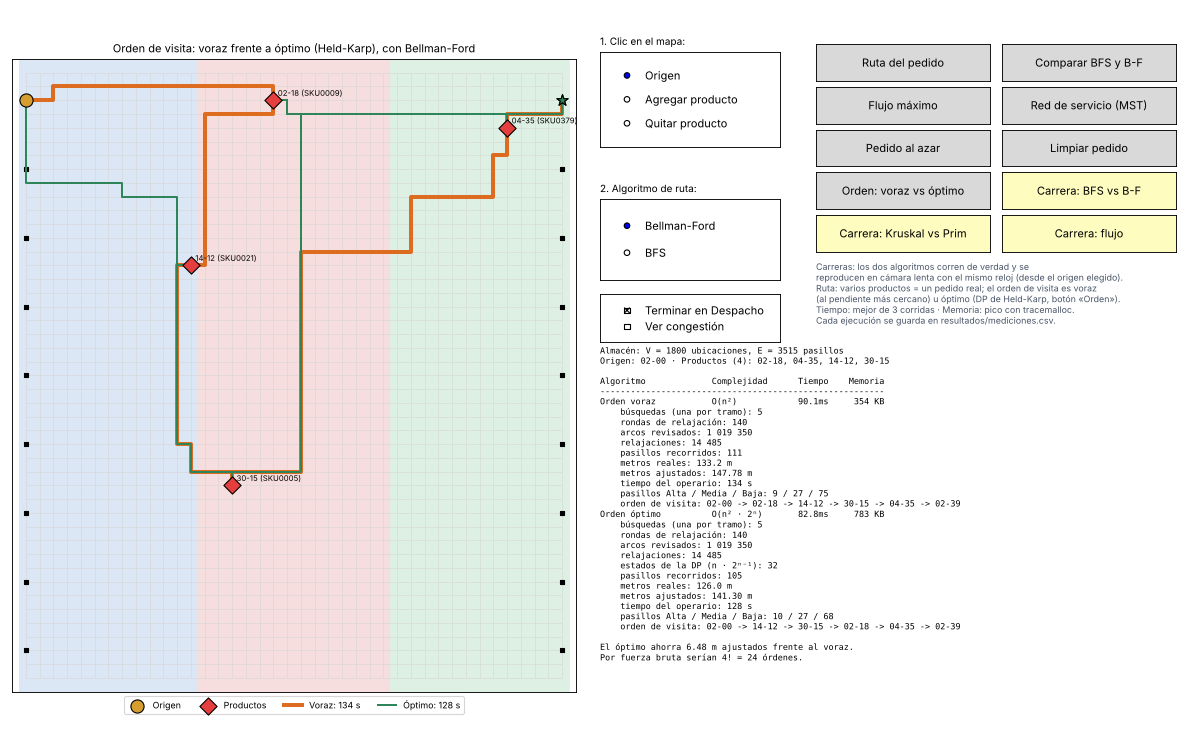
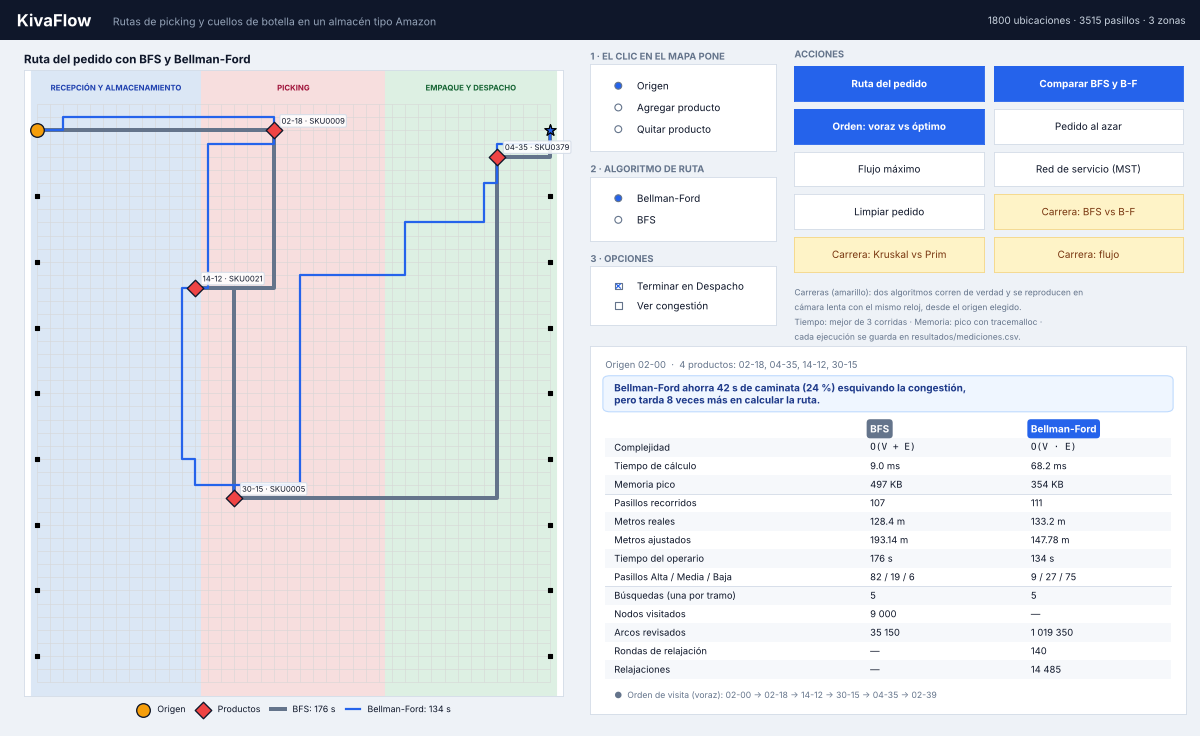
feat(diagramas): Graphviz design diagrams and a sector in the course notebook format
Claude-Session: https://claude.ai/code/session_011YXmpfnZhYUfUXZVwUZvjp

diff --git a/scripts/diagramas.py b/scripts/diagramas.py
@@ -1,0 +1,141 @@
+"""Diagramas con Graphviz, la herramienta de los cuadernos del curso (10_MST_Algoritmo_Kruskal_LA).
+
+Genera en docs/image/:
+    arquitectura.png     las capas del aplicativo y qué módulo usa a cuál (para «Diseño del aplicativo»)
+    flujo_pedido.png     qué pasa desde el clic en el mapa hasta la tabla de resultados
+    sector_mst.png       un sector de 6 × 6 de Picking dibujado como en el cuaderno del profe,
+                         con el MST de Kruskal resaltado en naranja
+y en data/:
+    sector_picking.in    ese mismo sector como lista de adyacencia ponderada, en el formato
+                         «vecino|peso» que lee la función readAdjl del cuaderno (pesos en cm, enteros)
+
+Uso:
+    python scripts/diagramas.py
+
+Necesita el paquete `graphviz` de Python (pip install graphviz) y el programa Graphviz
+instalado (https://graphviz.org/download/; en Google Colab ya viene). El resto de
+KivaFlow no lo necesita.
+"""
+import sys
+from pathlib import Path
+
+RAIZ = Path(__file__).resolve().parent.parent
+sys.path.insert(0, str(RAIZ))
+sys.path.insert(0, str(RAIZ / "scripts"))
+
+from kivaflow.mst import kruskal  # noqa: E402
+
+SALIDA = RAIZ / "docs" / "image"
+FUENTE = "Helvetica"
+CAPAS = [  # (capa, color de fondo, [(módulo, qué hace)])
+    ("Interfaz", "#dbeafe", [("scripts/app.py", "ventana y consola"), ("scripts/carrera.py", "carrera en el tiempo"),
+                             ("kivaflow/interfaz.py · mapa.py", "dibujo")]),
+    ("Análisis", "#fef3c7", [("kivaflow/medicion.py", "tiempo, memoria, operaciones"),
+                             ("scripts/analisis.py", "escalabilidad"), ("scripts/experimento.py", "160 pedidos")]),
+    ("Algoritmos", "#dcfce7", [("caminos.py", "BFS · Bellman-Ford · Floyd-Warshall"),
+                               ("flujo.py", "Ford-Fulkerson · Edmonds-Karp"), ("mst.py + ufds.py", "Kruskal · Prim"),
+                               ("pedido.py + orden.py", "voraz · Held-Karp"), ("mochila.py", "mochila 0/1")]),
+    ("Datos", "#fee2e2", [("scripts/generar_dataset.py", "layout + demanda + tráfico"),
+                          ("data/nodos.csv · aristas.csv", "1800 nodos, 3515 aristas"),
+                          ("kivaflow/grafo.py", "lista de adyacencia")]),
+]
+
+
+def arquitectura(gv):
+    g = gv.Digraph("arquitectura", format="png")
+    g.attr(rankdir="TB", fontname=FUENTE, nodesep="0.25", ranksep="0.55", dpi="130", compound="true")
+    g.attr("node", shape="box", style="rounded,filled", fillcolor="white", color="#94a3b8", fontname=FUENTE, fontsize="10")
+    g.attr("edge", color="#475569", arrowsize="0.7", fontname=FUENTE, fontsize="10")
+    primero = []
+    for i, (capa, color, modulos) in enumerate(CAPAS):
+        with g.subgraph(name=f"cluster_{i}") as c:
+            c.attr(label=capa, style="rounded,filled", fillcolor=color, color=color, fontname=f"{FUENTE} bold", fontsize="12")
+            for j, (modulo, que) in enumerate(modulos):
+                c.node(f"n{i}_{j}", f"<<b>{modulo}</b><br/><font point-size='9' color='#475569'>{que}</font>>")
+        primero.append(f"n{i}_{len(modulos) // 2}")
+    for i in range(len(CAPAS) - 1):  # cada capa solo usa la de abajo
+        g.edge(primero[i], primero[i + 1], ltail=f"cluster_{i}", lhead=f"cluster_{i + 1}", label="  usa")
+    return g
+
+
+def flujo_pedido(gv):
+    g = gv.Digraph("flujo", format="png")
+    g.attr(rankdir="LR", fontname=FUENTE, dpi="130", nodesep="0.3", ranksep="0.45")
+    g.attr("node", shape="box", style="rounded,filled", fillcolor="#f8fafc", color="#94a3b8", fontname=FUENTE, fontsize="10")
+    g.attr("edge", color="#475569", arrowsize="0.7", fontname=FUENTE, fontsize="9")
+    pasos = [("clic", "Clics en el mapa\n(origen y productos)", "#dbeafe"),
+             ("busq", "Una búsqueda por punto\nBFS  O(V + E)\nBellman-Ford  O(V · E)", "#dcfce7"),
+             ("orden", "Orden de visita\nvoraz  O(n²)\nHeld-Karp  O(n² · 2ⁿ)", "#dcfce7"),
+             ("rec", "Recorrido completo\n(termina en Despacho)", "#f8fafc"),
+             ("med", "Medición\ntiempo · memoria · operaciones", "#fef3c7"),
+             ("sal", "Mapa + tabla comparativa\ny resultados/mediciones.csv", "#dbeafe")]
+    for clave, texto, color in pasos:
+        g.node(clave, texto, fillcolor=color)
+    for (a, *_), (b, *_) in zip(pasos, pasos[1:]):
+        g.edge(a, b)
+    g.node("csv", "data/nodos.csv\ndata/aristas.csv", shape="cylinder", fillcolor="#fee2e2")
+    g.edge("csv", "busq", label="grafo")
+    return g
+
+
+def sector(d, filas=range(10, 16), cols=range(15, 21)):
+    """Nodos del sector, sus aristas [(u, v, peso)] y la lista de adyacencia con índices 0..n-1."""
+    nodos = d.sector(filas, cols)
+    aristas = d.aristas(dentro=set(nodos))
+    idx = {n: i for i, n in enumerate(nodos)}
+    la = [[] for _ in nodos]
+    for u, v, w in aristas:
+        cm = round(w * 100)  # el cuaderno del profe lee pesos enteros
+        la[idx[u]].append((idx[v], cm))
+        la[idx[v]].append((idx[u], cm))
+    return nodos, aristas, la
+
+
+def guardar_la(nodos, la, ruta):
+    """Formato del cuaderno: primera línea con las etiquetas; luego, por nodo, «vecino|peso …»."""
+    with open(ruta, "w", encoding="utf-8", newline="\n") as f:
+        f.write(" ".join(nodos) + "\n")
+        for vecinos in la:
+            f.write(" ".join(f"{v}|{w}" for v, w in vecinos) + "\n")
+
+
+def sector_mst(gv, d, nodos, aristas):
+    """Como adjlShow del cuaderno (nodos «orangered», árbol en naranja), con cada nodo en su lugar del almacén."""
+    arbol = {(u, v) for u, v, _ in kruskal(nodos, aristas).aristas}
+    g = gv.Graph("sector", format="png", engine="neato")
+    g.attr(dpi="130", fontname=FUENTE, label=f"Sector de Picking de 6 × 6: MST de Kruskal en naranja ({len(arbol)} de "
+           f"{len(aristas)} pasillos). Pesos = distancia ajustada en cm", labelloc="t", fontsize="11")
+    g.attr("node", color="orangered", fontcolor="mediumslateblue", fontname="monospace", fontsize="8",
+           shape="circle", width="0.45", fixedsize="true")
+    g.attr("edge", fontname="monospace", fontsize="8")
+    for n in nodos:
+        x, y = d.pos[n]
+        g.node(n, pos=f"{x * 0.85},{y * 0.85}!")
+    for u, v, w in aristas:
+        en_arbol = (u, v) in arbol
+        g.edge(u, v, str(round(w * 100)), color="orange" if en_arbol else "gray", penwidth="3" if en_arbol else "1")
+    return g
+
+
+def main():
+    try:
+        import graphviz as gv
+    except ImportError:
+        sys.exit("Falta el paquete graphviz: pip install graphviz (y el programa de https://graphviz.org/download/).")
+    from demo import Datos
+    d = Datos()
+    SALIDA.mkdir(parents=True, exist_ok=True)
+    nodos, aristas, la = sector(d)
+    guardar_la(nodos, la, RAIZ / "data" / "sector_picking.in")
+    print("Escrito data/sector_picking.in")
+    try:
+        for nombre, g in (("arquitectura", arquitectura(gv)), ("flujo_pedido", flujo_pedido(gv)),
+                          ("sector_mst", sector_mst(gv, d, nodos, aristas))):
+            g.render(str(SALIDA / nombre), cleanup=True)
+            print(f"Escrito docs/image/{nombre}.png")
+    except gv.ExecutableNotFound:
+        sys.exit("El paquete está, pero falta el programa Graphviz (dot): https://graphviz.org/download/")
+
+
+if __name__ == "__main__":
+    main()

diff --git a/README.md b/README.md
@@ -40,17 +40,18 @@ python scripts/app.py           # el aplicativo (ventana)
 python scripts/carrera.py rutas --origen 20-20   # dos algoritmos trabajando en el tiempo (también: mst, flujo)
 python scripts/analisis.py      # cómo crecen tiempo y memoria con el tamaño del almacén (abre la gráfica)
 python scripts/experimento.py   # 160 pedidos: cuánto ahorra Bellman-Ford y cuánto el orden óptimo (unos 4 min)
-python -m pytest                # 80 pruebas
+python scripts/diagramas.py     # diagramas con Graphviz, como en los cuadernos del curso (opcional)
+python -m pytest                # 82 pruebas
 ```
 
 ### Qué hace falta para ejecutarlo en otra computadora
 
-Python 3.10 o más reciente y las librerías de `requirements.txt` (`matplotlib` para las ventanas y figuras; `networkx` y `pytest` solo para las pruebas). No hay nada que configurar: cada script encuentra solo la carpeta del proyecto.
+Python 3.10 o más reciente y las librerías de `requirements.txt` (`matplotlib` para las ventanas y figuras; `networkx` y `pytest` solo para las pruebas). Solo `scripts/diagramas.py` necesita además Graphviz (`pip install graphviz` y el programa de https://graphviz.org/download/). No hay nada que configurar: cada script encuentra solo la carpeta del proyecto.
 
 | Carpeta | Qué tiene | ¿Hace falta para ejecutar? |
 |---|---|---|
 | `kivaflow/` | Los algoritmos, programados a mano, y la lectura del dataset | Sí |
-| `scripts/` | Los programas que se ejecutan: `app.py`, `carrera.py`, `demo.py`, `analisis.py`, `experimento.py` | Sí |
+| `scripts/` | Los programas que se ejecutan: `app.py`, `carrera.py`, `demo.py`, `analisis.py`, `experimento.py`, `diagramas.py` | Sí |
 | `data/` | El dataset: `nodos.csv` y `aristas.csv` (y `skus.csv`, que solo usan las pruebas) | Sí; se regenera idéntico con `python scripts/generar_dataset.py` |
 | `resultados/` | Figuras y tablas que generan los scripts | No; se crea sola. Está en el repo porque este README muestra sus imágenes |
 | `tests/` | Las pruebas (`python -m pytest`) | No |
@@ -58,7 +59,9 @@ Python 3.10 o más reciente y las librerías de `requirements.txt` (`matplotlib`
 
 ### El aplicativo (`scripts/app.py`)
 
-![Aplicativo: el mismo pedido con el orden de visita voraz y con el óptimo](docs/image/app.png)
+![Aplicativo: el mismo pedido con BFS y con Bellman-Ford, y la tabla que los compara](docs/image/app.png)
+
+La ventana sigue el estilo de los visualizadores de algoritmos más usados (VisuAlgo, Pathfinding Visualizer): cabecera oscura, el mapa a la izquierda, los controles numerados en el orden en que se usan, un color por algoritmo y los resultados en una tabla con una conclusión arriba.
 
 1. **Arma un pedido con clics en el mapa.** Elige el modo «Origen» (de dónde sale el operario) o «Agregar producto» y haz clic en una ubicación. «Pedido al azar» elige productos según su popularidad. Un pedido tiene varios productos porque así son los pedidos reales: el operario sale una vez y recoge todo. El orden de visita por defecto es **voraz** (siempre va al producto pendiente más cercano), porque el orden óptimo es el problema del viajante, que es NP-difícil.
 2. **«Ruta del pedido»** calcula el recorrido con el algoritmo elegido. **«Comparar BFS y B-F»** dibuja los dos sobre el mismo pedido. Con «Terminar en Despacho», el recorrido acaba en el muelle de Despacho más cercano.
@@ -66,7 +69,7 @@ Python 3.10 o más reciente y las librerías de `requirements.txt` (`matplotlib`
 4. **«Flujo máximo»** (Edmonds-Karp y Ford-Fulkerson con DFS) y **«Red de servicio (MST)»** (Kruskal y Prim) analizan el almacén completo.
 5. Los botones amarillos **«Carrera…»** abren la carrera en el tiempo (ver abajo) desde el origen elegido.
 
-Cada ejecución muestra, por algoritmo:
+Cada ejecución muestra una columna por algoritmo:
 
 | Medida | Qué es | Cómo se mide |
 |---|---|---|
@@ -133,6 +136,20 @@ Corre cada algoritmo en sectores del almacén de 100 a 1800 ubicaciones y ajusta
 | Floyd-Warshall | O(V³) | V³ | V^2,90 | Coincide; por eso solo se corre hasta 225 ubicaciones |
 
 ![Escalabilidad](resultados/escalabilidad.png)
+
+## Diseño del aplicativo (`scripts/diagramas.py`)
+
+Los diagramas se generan con **Graphviz**, la misma herramienta de los cuadernos del curso.
+
+![Capas del aplicativo](docs/image/arquitectura.png)
+
+Cada capa solo usa la de abajo: los algoritmos no saben nada de ventanas y la interfaz no calcula nada. Por eso el mismo código sirve en la ventana, en la consola (`--consola`) y en las pruebas.
+
+![Del clic a la tabla de resultados](docs/image/flujo_pedido.png)
+
+`diagramas.py` también deja un sector de 6 × 6 de Picking en [`data/sector_picking.in`](data/sector_picking.in), en el formato de lista de adyacencia ponderada (`vecino|peso`) que lee la función `readAdjl` del cuaderno de Kruskal del curso, y lo dibuja con el estilo de `adjlShow`, con el MST en naranja:
+
+![Sector de Picking con el MST de Kruskal](docs/image/sector_mst.png)
 
 ## Demo del MST (red de servicio)
 
